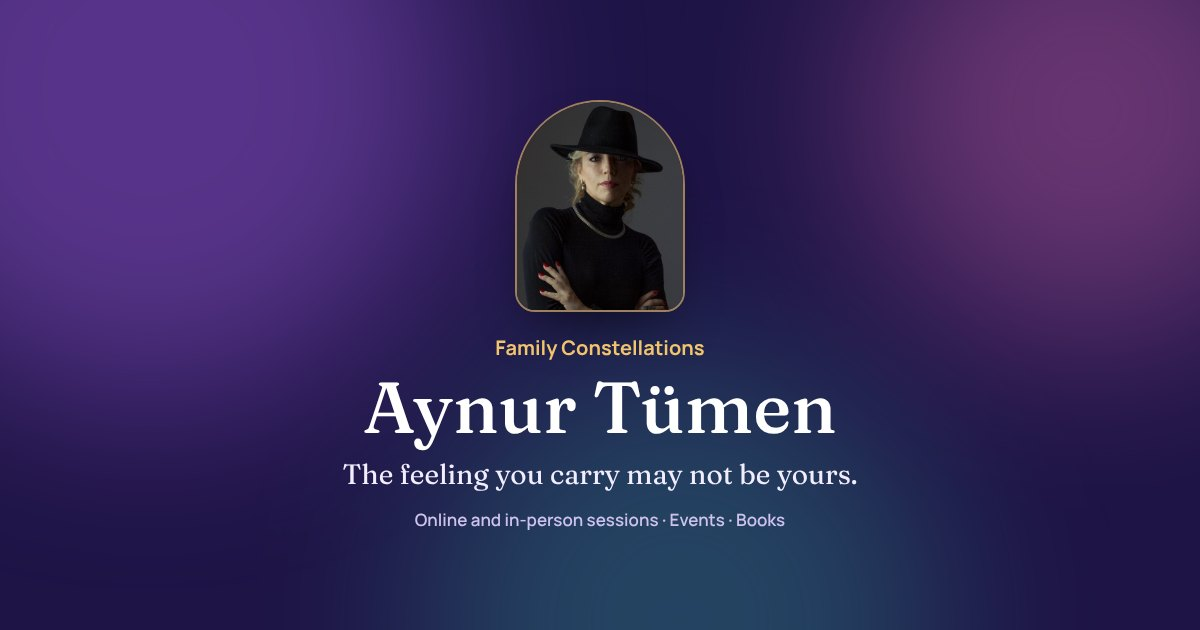
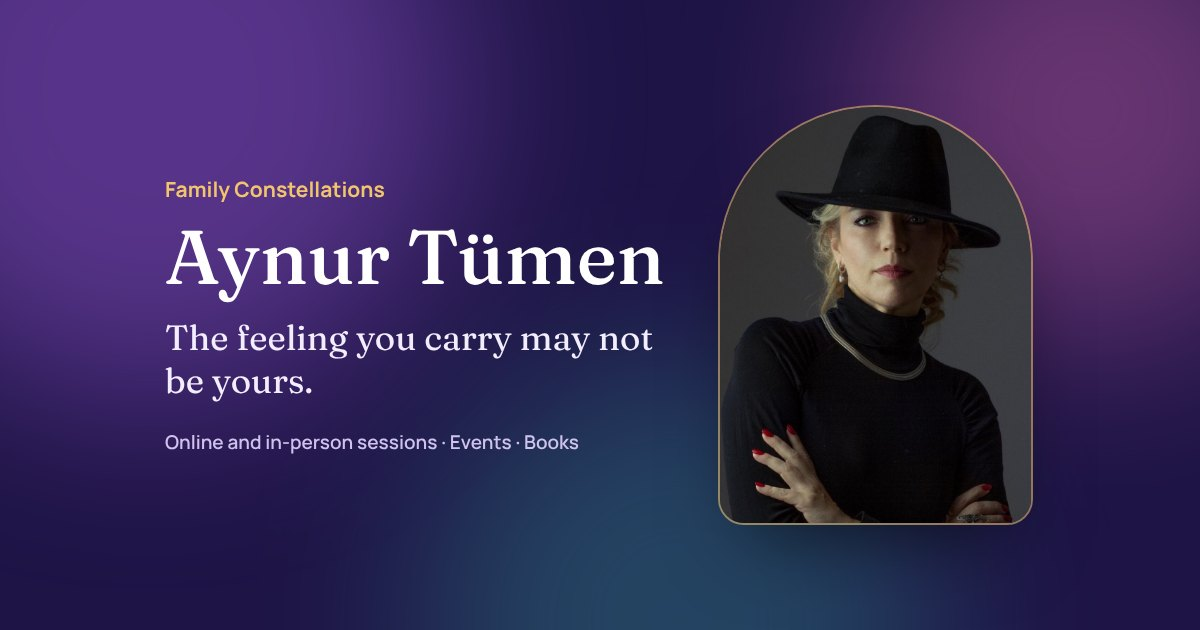
Paylasim gorselleri: eski duzen, portre biraz kucuk, yazilar saga (4 dil)

Changed region(s): [[0.1233, 0.1508, 0.8633, 0.8746], [0.1233, 0.2714, 0.3392, 0.3317]]

diff --git a/app/views/layout.php b/app/views/layout.php
@@ -43,7 +43,7 @@ function layout(array $o): string {
   $year = date('Y');
   $clientJs = $client && $L !== 'tr' ? '<script>window.I18N=' . str_replace('<', '\\u003c', js_json((object)I18n::clientDict($L))) . '</script><script src="/js/i18n.js?v=' . $V . '" defer></script>' : '';
   $canon = esc($site . I18n::prefix($self, $L));
-  $img = esc("$site/images/paylasim-$L.jpg?v=2");
+  $img = esc("$site/images/paylasim-$L.jpg?v=3");
   return <<<HTML
 <!doctype html>
 <html lang="$L">
